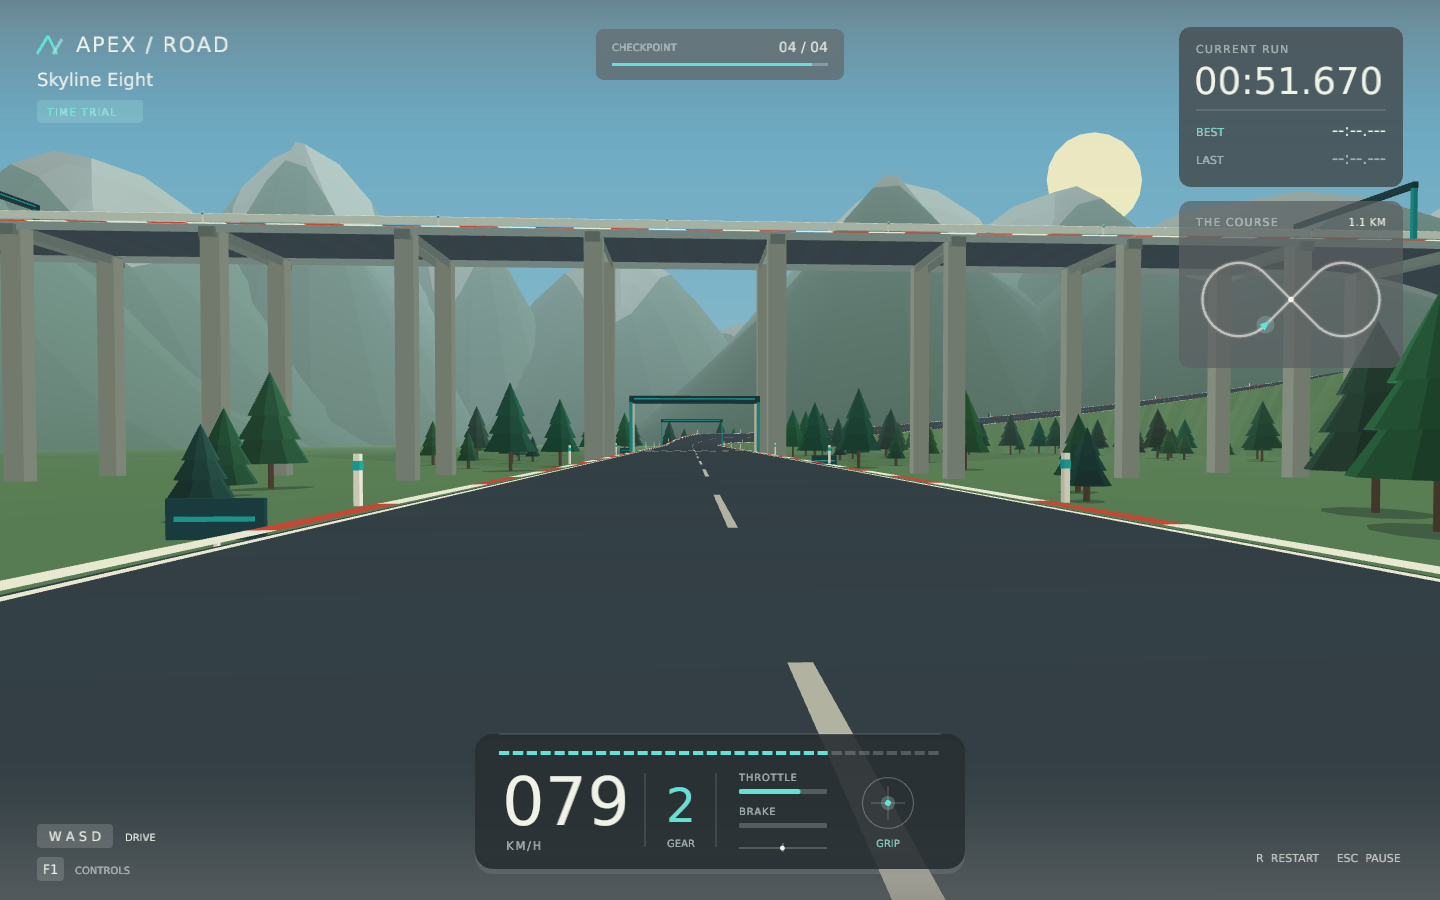
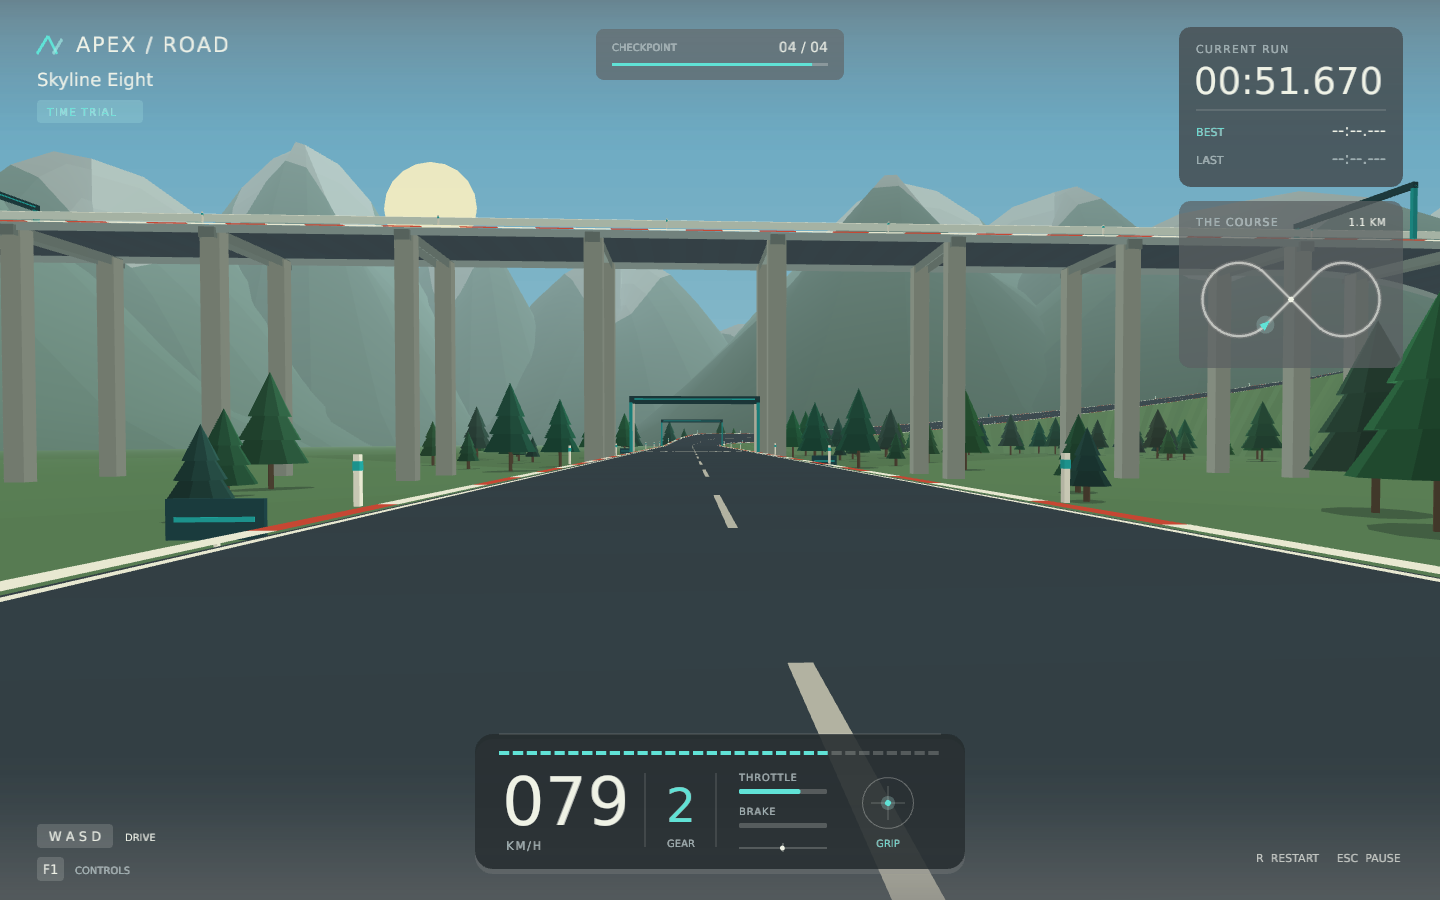
Anchor the sun to a fixed world direction

diff --git a/src/view.rs b/src/view.rs
@@ -4,6 +4,7 @@ use macroquad::{camera::Camera, prelude::*};
 pub struct DriverCamera {
     pub position: Vec3,
     view_projection: Mat4,
+    vertical_focal_length: f32,
 }
 
 impl DriverCamera {
@@ -33,7 +34,37 @@ impl DriverCamera {
         Self {
             position: eye,
             view_projection: screen_handedness * projection * view,
+            vertical_focal_length: projection.y_axis.y,
         }
+    }
+
+    /// Project a distant sky disc into pixels, with no parallax as the car moves.
+    pub fn project_sky_disc(
+        &self,
+        direction: Vec3,
+        angular_radius: f32,
+        viewport: Vec2,
+    ) -> Option<(Vec2, f32)> {
+        // A direction has homogeneous w = 0, so camera translation is ignored.
+        let clip = self.view_projection * direction.extend(0.);
+        if clip.w <= f32::EPSILON {
+            return None;
+        }
+        let center = vec2(
+            (clip.x / clip.w + 1.) * viewport.x * 0.5,
+            (1. - clip.y / clip.w) * viewport.y * 0.5,
+        );
+        // Retain a circular, stylized disc while respecting the camera's FOV.
+        let radius = viewport.y * 0.5 * self.vertical_focal_length * angular_radius.tan();
+        if center.x + radius < 0.
+            || center.x - radius > viewport.x
+            || center.y + radius < 0.
+            || center.y - radius > viewport.y
+        {
+            return None;
+        }
+        // Ignore clip-space depth: a sky direction is beyond the far plane.
+        Some((center, radius))
     }
 }
 
@@ -90,5 +121,97 @@ mod tests {
             assert!(camera.matrix().project_point3(ahead + right * 3.).x > center.x);
             assert!(camera.matrix().project_point3(ahead + up * 3.).y > center.y);
         }
+    }
+
+    #[test]
+    fn sky_disc_follows_heading_pitch_and_bank() {
+        let viewport = vec2(1440., 900.);
+        let azimuth = 0.4_f32;
+        let elevation = 0.3_f32;
+        let direction = vec3(
+            azimuth.sin() * elevation.cos(),
+            elevation.sin(),
+            azimuth.cos() * elevation.cos(),
+        );
+        let project = |heading, pitch, roll| {
+            DriverCamera::new(Vec3::ZERO, heading, pitch, roll, 0., 1.6)
+                .project_sky_disc(direction, 4_f32.to_radians(), viewport)
+                .map(|(center, _)| center)
+        };
+        let initial = project(0., 0., 0.).unwrap();
+        let turning = project(0.2, 0., 0.).unwrap();
+        assert!(initial.x > turning.x && turning.x > viewport.x * 0.5);
+        let aligned = project(azimuth, elevation, 0.).unwrap();
+        assert!(aligned.distance(viewport * 0.5) < 0.001);
+        assert!(project(azimuth + std::f32::consts::PI, 0., 0.).is_none());
+        let level = project(azimuth, 0., 0.).unwrap();
+        let banked = project(azimuth, 0., 0.3).unwrap();
+        assert!(level.y < viewport.y * 0.5);
+        assert!(banked.x > level.x && banked.y > level.y);
+    }
+
+    #[test]
+    fn sky_disc_has_no_translation_parallax() {
+        let project = |position| {
+            DriverCamera::new(position, 0.2, 0.1, -0.15, 60., 1.6)
+                .project_sky_disc(vec3(0.45, 0.35, 1.).normalize(), 0.07, vec2(1440., 900.))
+                .unwrap()
+        };
+        let (origin, radius) = project(Vec3::ZERO);
+        let (translated, translated_radius) = project(vec3(500., 80., -700.));
+        assert!(origin.distance(translated) < 0.05);
+        assert_eq!(radius, translated_radius);
+    }
+
+    #[test]
+    fn sky_disc_size_respects_resolution_aspect_and_fov() {
+        let direction = vec3(0.3, 0.2, 1.).normalize();
+        let project = |viewport: Vec2, speed| {
+            DriverCamera::new(Vec3::ZERO, 0., 0., 0., speed, viewport.x / viewport.y)
+                .project_sky_disc(direction, 0.07, viewport)
+                .unwrap()
+        };
+        let (center, radius) = project(vec2(960., 540.), 0.);
+        let (large_center, large_radius) = project(vec2(1920., 1080.), 0.);
+        assert!(large_center.distance(center * 2.) < 0.001);
+        assert_eq!(large_radius, radius * 2.);
+        let (wide_center, wide_radius) = project(vec2(1280., 540.), 0.);
+        assert_eq!(wide_radius, radius);
+        assert!((wide_center.x - center.x - 160.).abs() < 0.001);
+        assert!((wide_center.y - center.y).abs() < 0.001);
+        assert!(project(vec2(960., 540.), 180.).1 < radius);
+    }
+
+    #[test]
+    fn sky_disc_can_be_partially_visible_at_viewport_edge() {
+        let viewport = vec2(1440., 900.);
+        let camera = DriverCamera::new(Vec3::ZERO, 0., 0., 0., 0., 1.6);
+        let angular_radius = 0.07;
+        let (_, radius) = camera
+            .project_sky_disc(Vec3::Z, angular_radius, viewport)
+            .unwrap();
+        let direction_at = |ndc_x| vec3(ndc_x * 1.6 / camera.vertical_focal_length, 0., 1.);
+        let partial = camera
+            .project_sky_disc(
+                direction_at(1. + radius / viewport.x),
+                angular_radius,
+                viewport,
+            )
+            .unwrap();
+        assert!(partial.0.x > viewport.x && partial.0.x - radius < viewport.x);
+        assert!(
+            camera
+                .project_sky_disc(
+                    direction_at(1. + 3. * radius / viewport.x),
+                    angular_radius,
+                    viewport,
+                )
+                .is_none()
+        );
+        assert!(
+            camera
+                .project_sky_disc(Vec3::X, angular_radius, viewport)
+                .is_none()
+        );
     }
 }

diff --git a/src/world.rs b/src/world.rs
@@ -508,12 +508,20 @@ impl World {
             let c = Color::new(0.38 + 0.36 * t, 0.64 + 0.21 * t, 0.75 + 0.10 * t, 1.);
             draw_rectangle(0., h * i as f32 / 48., w, h / 48. + 1., c);
         }
-        draw_circle(
-            w * 0.76,
-            h * 0.20,
-            h * 0.053,
-            Color::new(0.97, 0.93, 0.73, 0.9),
-        );
+        // The sun has a fixed world direction; turning, climbing, and banking
+        // change its windshield position. Draw before scenery for occlusion.
+        if let Some((center, radius)) = camera.project_sky_disc(
+            vec3(0.45, 0.35, 1.).normalize(),
+            4_f32.to_radians(),
+            vec2(w, h),
+        ) {
+            draw_circle(
+                center.x,
+                center.y,
+                radius,
+                Color::new(0.97, 0.93, 0.73, 0.9),
+            );
+        }
         set_camera(camera);
         self.material.set_uniform("Eye", camera.position);
         gl_use_material(&self.material);
